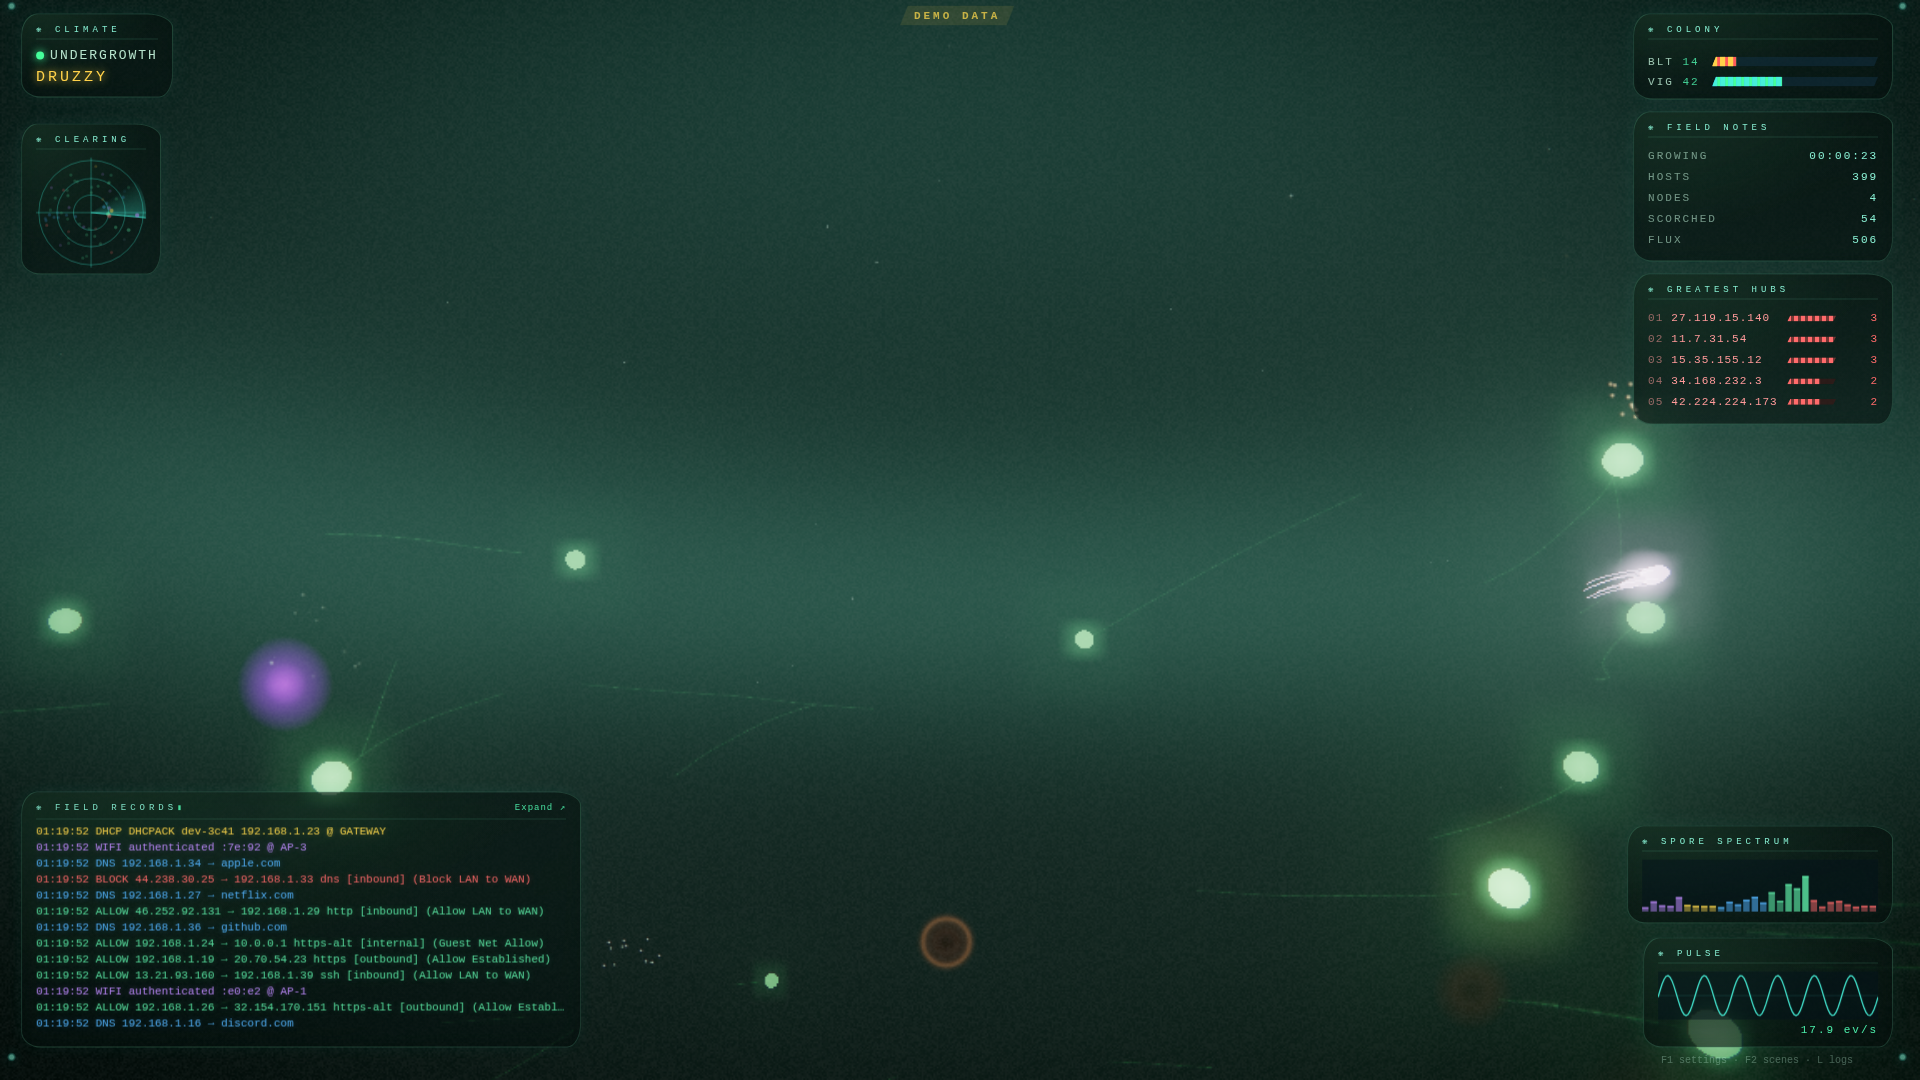
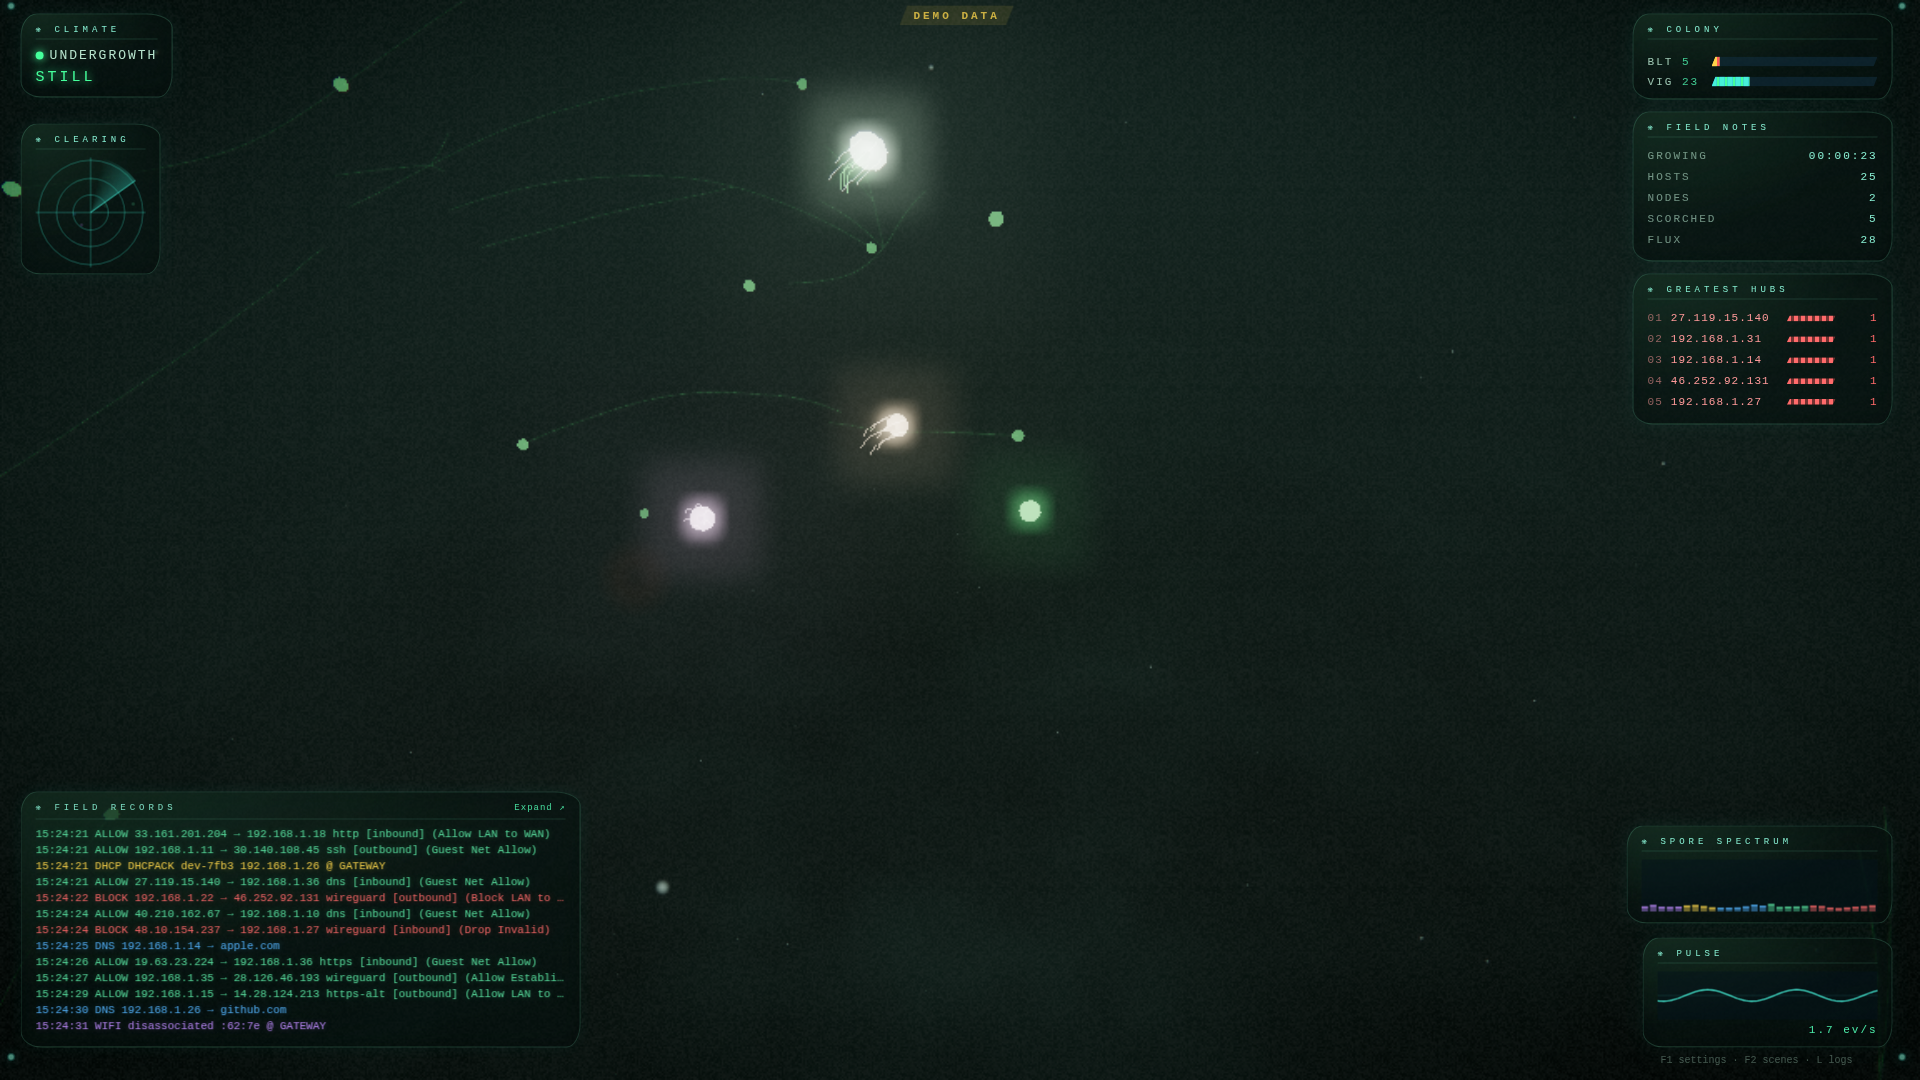
undergrowth: an aurora ripples over the mat — teal curtains, cyan cores, violet fringes replace the green canopy glow (uAurora toggle keeps the old sky one click away); fresh gallery media

diff --git a/web/src/themes/undergrowth/world.ts b/web/src/themes/undergrowth/world.ts
@@ -58,30 +58,66 @@ export interface World {
   setPixelRatio(r: number): void;
   setBloom(on: boolean): void;
   setSpecks(n: number): void;
+  setAurora(on: boolean): void;
   /** `t` is sim seconds (bullet time slows the void too); `driftMul` stirs the dust on weather. */
   update(dt: number, t: number, driftMul: number): void;
   render(): void;
 }
 
-/** The earth all around: dark soil below, a faint glow of the forest above. */
+/** The earth all around: dark soil below, and an aurora rippling overhead. */
 function backdrop(): Mesh {
   const mat = new ShaderMaterial({
-    uniforms: { uTime: { value: 0 } },
+    uniforms: { uTime: { value: 0 }, uAurora: { value: 1 } },
     vertexShader: vsWorld,
     fragmentShader: /* glsl */`
-      uniform float uTime;
+      uniform float uTime, uAurora;
       varying vec3 vWp;
+      float h21(vec2 p) { p = fract(p * vec2(123.34, 456.21)); p += dot(p, p + 45.32); return fract(p.x * p.y); }
+      float noise(vec2 p) {
+        vec2 i = floor(p), f = fract(p);
+        f = f * f * (3.0 - 2.0 * f);
+        return mix(mix(h21(i), h21(i + vec2(1.0, 0.0)), f.x), mix(h21(i + vec2(0.0, 1.0)), h21(i + vec2(1.0, 1.0)), f.x), f.y);
+      }
+      float fbm(vec2 p) { return noise(p) * 0.55 + noise(p * 2.7) * 0.3 + noise(p * 6.1) * 0.15; }
+
+      // one aurora curtain: ridged noise scrolls sideways, stretched vertical
+      // to ribbons; windowed to a band of sky, its lower edge shimmering
+      float curtain(float az, float up, float seed, float scale, float speed, float hCenter, float hWidth) {
+        vec2 q = vec2(az * scale + seed * 7.3 + uTime * speed, seed * 3.1);
+        float n = fbm(q * vec2(2.4, 0.9));
+        float ribbon = 1.0 - abs(noise(q * vec2(1.6, 0.55) + n * 0.8) * 2.0 - 1.0);
+        ribbon = pow(max(ribbon, 0.0), 3.2);
+        float hv = exp(-pow((up - hCenter - 0.04 * sin(az * 4.0 + uTime * speed * 2.0)) / hWidth, 2.0));
+        float shimmer = 0.75 + 0.25 * sin(az * 23.0 + uTime * 1.4 + seed * 9.0);
+        return ribbon * hv * shimmer;
+      }
       void main() {
         vec3 dir = normalize(vWp - cameraPosition);
         float up = dir.y;
         vec3 soil = vec3(0.010, 0.014, 0.012);
         vec3 earth = vec3(0.016, 0.030, 0.026);
-        vec3 canopy = vec3(0.030, 0.075, 0.062);
+        vec3 night = vec3(0.020, 0.048, 0.046);
         vec3 col = mix(soil, earth, smoothstep(-0.85, 0.05, up));
-        col = mix(col, canopy, smoothstep(0.15, 0.9, up) * 0.8);
-        // a slow, breathing band where the canopy glow leaks in
-        float band = exp(-pow((up - 0.22 + 0.03 * sin(uTime * 0.07 + dir.x * 3.0)) * 7.0, 2.0));
-        col += vec3(0.05, 0.14, 0.11) * band * 0.35;
+        col = mix(col, night, smoothstep(0.12, 0.6, up));
+        float az = atan(dir.z, dir.x);
+        if (uAurora > 0.001) {
+          float c1 = curtain(az, up, 0.0, 2.2, 0.045, 0.42, 0.26);
+          float c2 = curtain(az, up, 1.0, 3.4, 0.070, 0.58, 0.20);
+          float c3 = curtain(az, up, 2.0, 1.6, 0.030, 0.30, 0.30);
+          float a = c1 * 0.55 + c2 * 0.42 + c3 * 0.3;
+          float rise = smoothstep(0.10, 0.32, up);
+          vec3 teal = vec3(0.10, 0.72, 0.52), cyan = vec3(0.22, 0.55, 0.95), violet = vec3(0.46, 0.24, 0.86);
+          vec3 ac = mix(teal, cyan, clamp(c2 * 1.6, 0.0, 1.0));
+          ac = mix(ac, violet, clamp((c1 + c2) * 0.45 + smoothstep(0.72, 0.95, up) * 0.5, 0.0, 1.0) * 0.55);
+          float breathe = 0.85 + 0.15 * sin(uTime * 0.11) * sin(uTime * 0.043 + 2.0);
+          col += ac * a * rise * breathe * uAurora * 0.60;
+          col += vec3(0.05, 0.11, 0.10) * rise * rise * 0.12;
+        } else {
+          vec3 canopy = vec3(0.030, 0.075, 0.062);
+          col = mix(col, canopy, smoothstep(0.15, 0.9, up) * 0.8);
+          float band = exp(-pow((up - 0.22 + 0.03 * sin(uTime * 0.07 + dir.x * 3.0)) * 7.0, 2.0));
+          col += vec3(0.05, 0.14, 0.11) * band * 0.35;
+        }
         gl_FragColor = vec4(col, 1.0);
         #include <tonemapping_fragment>
         #include <colorspace_fragment>
@@ -227,6 +263,7 @@ export function createWorld(mount: HTMLElement, antialias: boolean, powerPref: W
     setPixelRatio(r) { renderer.setPixelRatio(r); composer.setPixelRatio(r); composer.setSize(window.innerWidth, window.innerHeight); setRes(); },
     setBloom(on) { bloom.enabled = on; },
     setSpecks(n) { speckPoints.geometry.setDrawRange(0, n); },
+    setAurora(on) { (backdropMesh.material as ShaderMaterial).uniforms.uAurora.value = on ? 1 : 0; },
     update(dt, t, driftMul) {
       drift[0] += dt * 1.6 * driftMul; drift[1] += dt * 0.4 * driftMul; drift[2] += dt * 1.1 * driftMul;
       const u = (speckPoints.material as ShaderMaterial).uniforms;

diff --git a/web/src/themes/undergrowth/settings.ts b/web/src/themes/undergrowth/settings.ts
@@ -17,6 +17,7 @@ export const UNDERGROWTH_DEFAULTS = {
   uScorch: true,        // block → a scorch scar where the flow ran
   uBlight: true,        // threat → a blight fog crawls the web
   uLabels: true,        // host and domain labels
+  uAurora: true,        // an aurora ripples across the sky above the mat
   uFocus: true,         // the camera drifts toward fresh blooms and blights
   uPersist: true,       // the garden survives reloads (shared with the Mycelium scene)
 
@@ -59,6 +60,7 @@ export const UNDERGROWTH_CONTROLS = {
     toggle('uSprouts', 'DHCP sprouts'), toggle('uSpores', 'Wi-Fi spores'),
     toggle('uScorch', 'Block scorch'), toggle('uBlight', 'Threat blight'),
     toggle('uLabels', 'Labels'), toggle('uFocus', 'Follow events'), toggle('uPersist', 'Keep the garden'),
+    toggle('uAurora', 'Aurora sky'),
   ],
   budgets: [
     range('uCamSpeed', 'Flight speed', 2, 30, 0.5),

diff --git a/web/src/themes/undergrowth/index.ts b/web/src/themes/undergrowth/index.ts
@@ -63,6 +63,7 @@ async function create(host: ThemeHost<typeof UNDERGROWTH_DEFAULTS>, init: Render
     sim.maxPulses = settings.uMaxPulses;
     world.setSpecks(settings.uDust);
     world.setBloom(settings.quality !== 'low');
+    world.setAurora(settings.uAurora);
   }
   applyBudgets();
 

diff --git a/README.md b/README.md
@@ -430,7 +430,7 @@ panel's **Apply & reload**.
 
 | Tab | What's in it |
 |-----|--------------|
-| **Scene** | the scene's own toggles. Orbital Command: starfield, nebula, dust, ambient ships, DHCP planets, event stars, asteroids, attack rockets, crystals, IP constellations, ring objects, AP cores, screen shake, move with the music. Last Outpost: zombies, hordes, supply runs, couriers, DNS radio, DHCP arrivals, AP buildings, day/night, rain, blood, screen shake, move with the music. Midnight Run: traffic, roadblocks, police chase, rivals, DNS billboards, Wi-Fi gates, rain, camera nudge, move with the music. Packet Rush: gems, baddies, query blocks, rivals, checkpoints, hunter drone, rain and embers, turbo, boss fights, hero. Panopticon: signal arcs, tracking, satellites, uplinks, ripples, clouds and storms, grid, move with the music, eye of god, and how often the eye is tasked. Mainframe: packets, firewalls, worms and ICE, lookup towers, pick-and-place, antennas, floating addresses, move with the music, flight speed, dive into a chip, and how often it dives. Aquarium: schools, pufferfish, shark, bubbles, residents, treasure chest, light dimming on system log bursts, names and addresses, how many residents the reef holds, current, camera drift. The Gibson: face pulses, scrolling listings, tower rewrites, access banners, target lock, move with the music, scroll speed. Mycelium: growing hyphae, DNS blooms, DHCP sprouts, Wi-Fi spores, block scorch, threat blight, device labels, keeping the garden across reloads, hypha half-life, bioluminescence, and spore drift. Undergrowth: light pulses, DNS blooms, DHCP sprouts, Wi-Fi spores, block scorch, threat blight, labels, following events, keeping the garden across reloads, flight speed, bioluminescence, spore drift, and hypha half-life. FRAGNET: each event's effect, the weapon, gore, patrol speed and traces per level. Substrate: allow cracks, block scars, threat fractures, DNS blooms, DHCP seeds, Wi-Fi drift, host seeding, the pigment wash, crack hairlines, naming the busiest district, a new paper each picture, plus seconds per picture, pigment strength and wander. Slipstream: the circuit (or a home track picked by hostname), whether the camera follows the busiest host or the leader, draft surges, sprint and sponsor board, pit takeovers, oil spins, red shells, boost pads, yellow cautions, speed chevrons, background wobble, corner minimap and race pace |
+| **Scene** | the scene's own toggles. Orbital Command: starfield, nebula, dust, ambient ships, DHCP planets, event stars, asteroids, attack rockets, crystals, IP constellations, ring objects, AP cores, screen shake, move with the music. Last Outpost: zombies, hordes, supply runs, couriers, DNS radio, DHCP arrivals, AP buildings, day/night, rain, blood, screen shake, move with the music. Midnight Run: traffic, roadblocks, police chase, rivals, DNS billboards, Wi-Fi gates, rain, camera nudge, move with the music. Packet Rush: gems, baddies, query blocks, rivals, checkpoints, hunter drone, rain and embers, turbo, boss fights, hero. Panopticon: signal arcs, tracking, satellites, uplinks, ripples, clouds and storms, grid, move with the music, eye of god, and how often the eye is tasked. Mainframe: packets, firewalls, worms and ICE, lookup towers, pick-and-place, antennas, floating addresses, move with the music, flight speed, dive into a chip, and how often it dives. Aquarium: schools, pufferfish, shark, bubbles, residents, treasure chest, light dimming on system log bursts, names and addresses, how many residents the reef holds, current, camera drift. The Gibson: face pulses, scrolling listings, tower rewrites, access banners, target lock, move with the music, scroll speed. Mycelium: growing hyphae, DNS blooms, DHCP sprouts, Wi-Fi spores, block scorch, threat blight, device labels, keeping the garden across reloads, hypha half-life, bioluminescence, and spore drift. Undergrowth: light pulses, DNS blooms, DHCP sprouts, Wi-Fi spores, block scorch, threat blight, labels, following events, keeping the garden across reloads, the aurora sky, flight speed, bioluminescence, spore drift, and hypha half-life. FRAGNET: each event's effect, the weapon, gore, patrol speed and traces per level. Substrate: allow cracks, block scars, threat fractures, DNS blooms, DHCP seeds, Wi-Fi drift, host seeding, the pigment wash, crack hairlines, naming the busiest district, a new paper each picture, plus seconds per picture, pigment strength and wander. Slipstream: the circuit (or a home track picked by hostname), whether the camera follows the busiest host or the leader, draft surges, sprint and sponsor board, pit takeovers, oil spins, red shells, boost pads, yellow cautions, speed chevrons, background wobble, corner minimap and race pace |
 | **HUD** | each HUD panel on or off (names follow the scene), plus scanlines |
 | **Audio** | see [Mixing](#mixing) |
 | **Colour** | hue shift and intensity for the HUD accent; Orbital Command also recolours its host mesh (spectrum, event law, mono, warm, cool). Event colours never change |
@@ -969,15 +969,17 @@ corners.
 The same garden, seen from inside. Undergrowth wraps the Mycelium mat — the
 very same one, the same browser storage, the same half-life — into a hollow
 sphere: a thick shell of layered strands with no edge and no horizon, turning
-in a dark subterranean void with a faint floor mist far below to tell you the
-loam is down there. You fly inside the web itself with a hands-free
-autopilot that floats like a thing in zero gravity rather than flying like a
-drone: velocity-limited turns that always blend in, thrust easing off to bank
-around toward a new target, a drift to a stop when the ride runs out instead
-of a brake check. The view never volunteers to stare at empty space — it is
-continuously pulled toward whatever nearby is glowing — and when the web
-exhausts, the camera glides over to the busiest patch that's somewhere else,
-bending around the hollow core rather than through it.
+in a dark subterranean void under an aurora that ripples slowly across the
+sky overhead — teal curtains brightening toward cyan, violet fringing their
+edges — while a faint floor mist far below tells you the loam is down there.
+You fly inside the web itself with a hands-free autopilot that floats like a
+thing in zero gravity rather than flying like a drone: velocity-limited turns
+that always blend in, thrust easing off to bank around toward a new target, a
+drift to a stop when the ride runs out instead of a brake check. The view
+never volunteers to stare at empty space — it is continuously pulled toward
+whatever nearby is glowing — and when the web exhausts, the camera glides
+over to the busiest patch that's somewhere else, bending around the hollow
+core rather than through it.
 
 The web has its creatures now: busy junctions sprout skirts of glowing
 tendrils that sway in the current, jellyfish with light for a bell, and the
